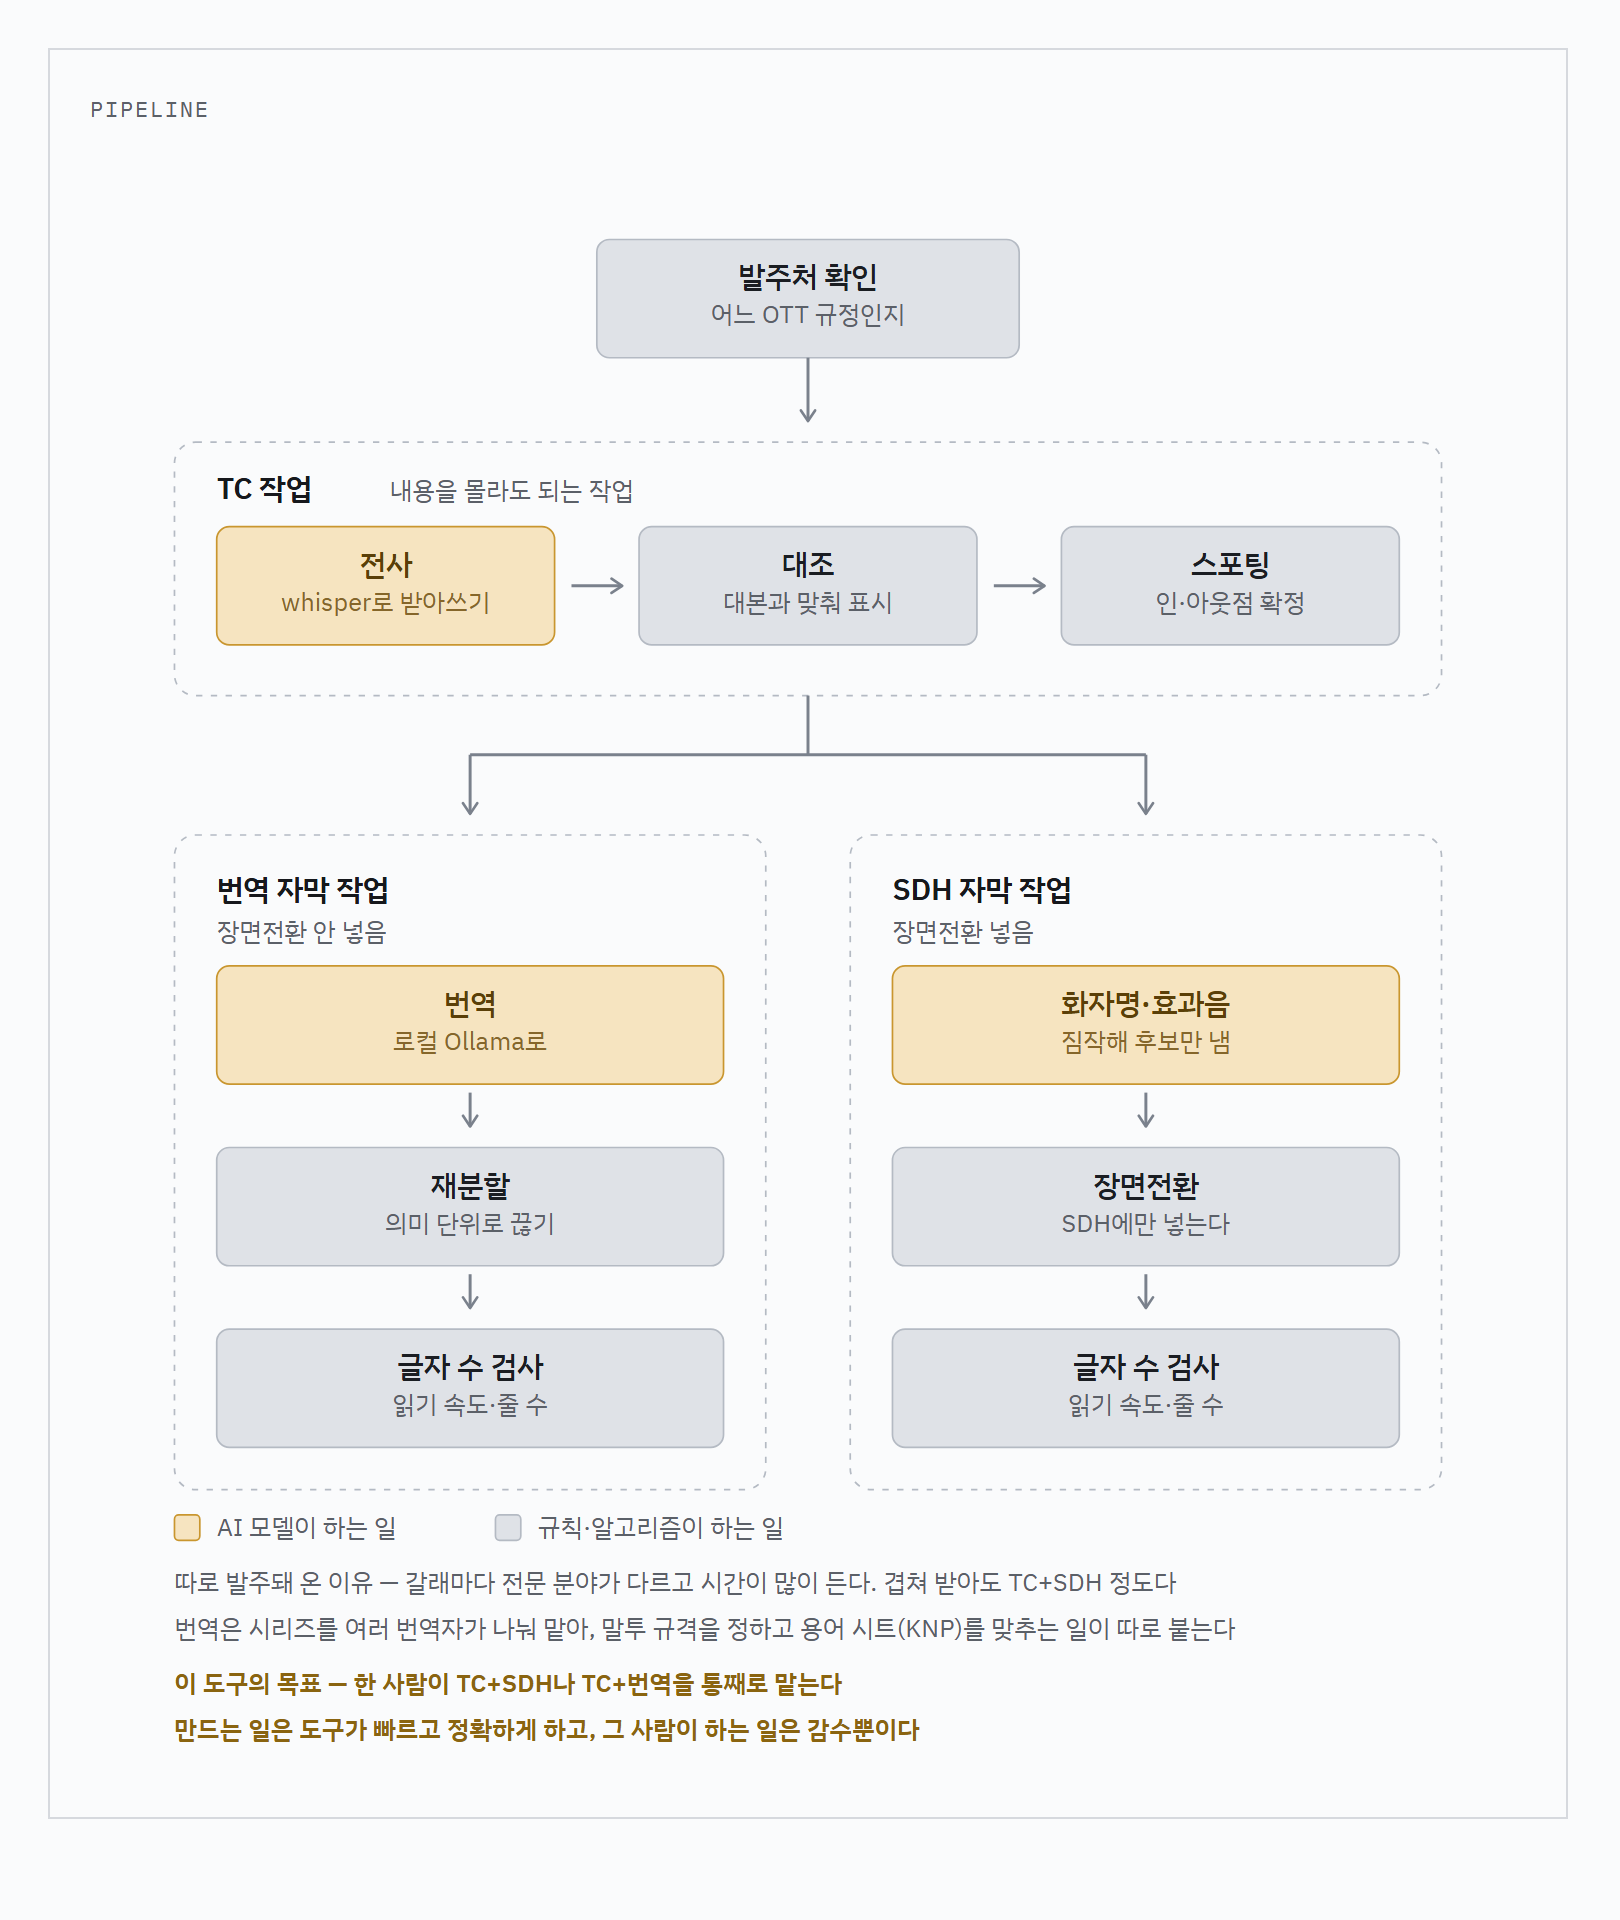
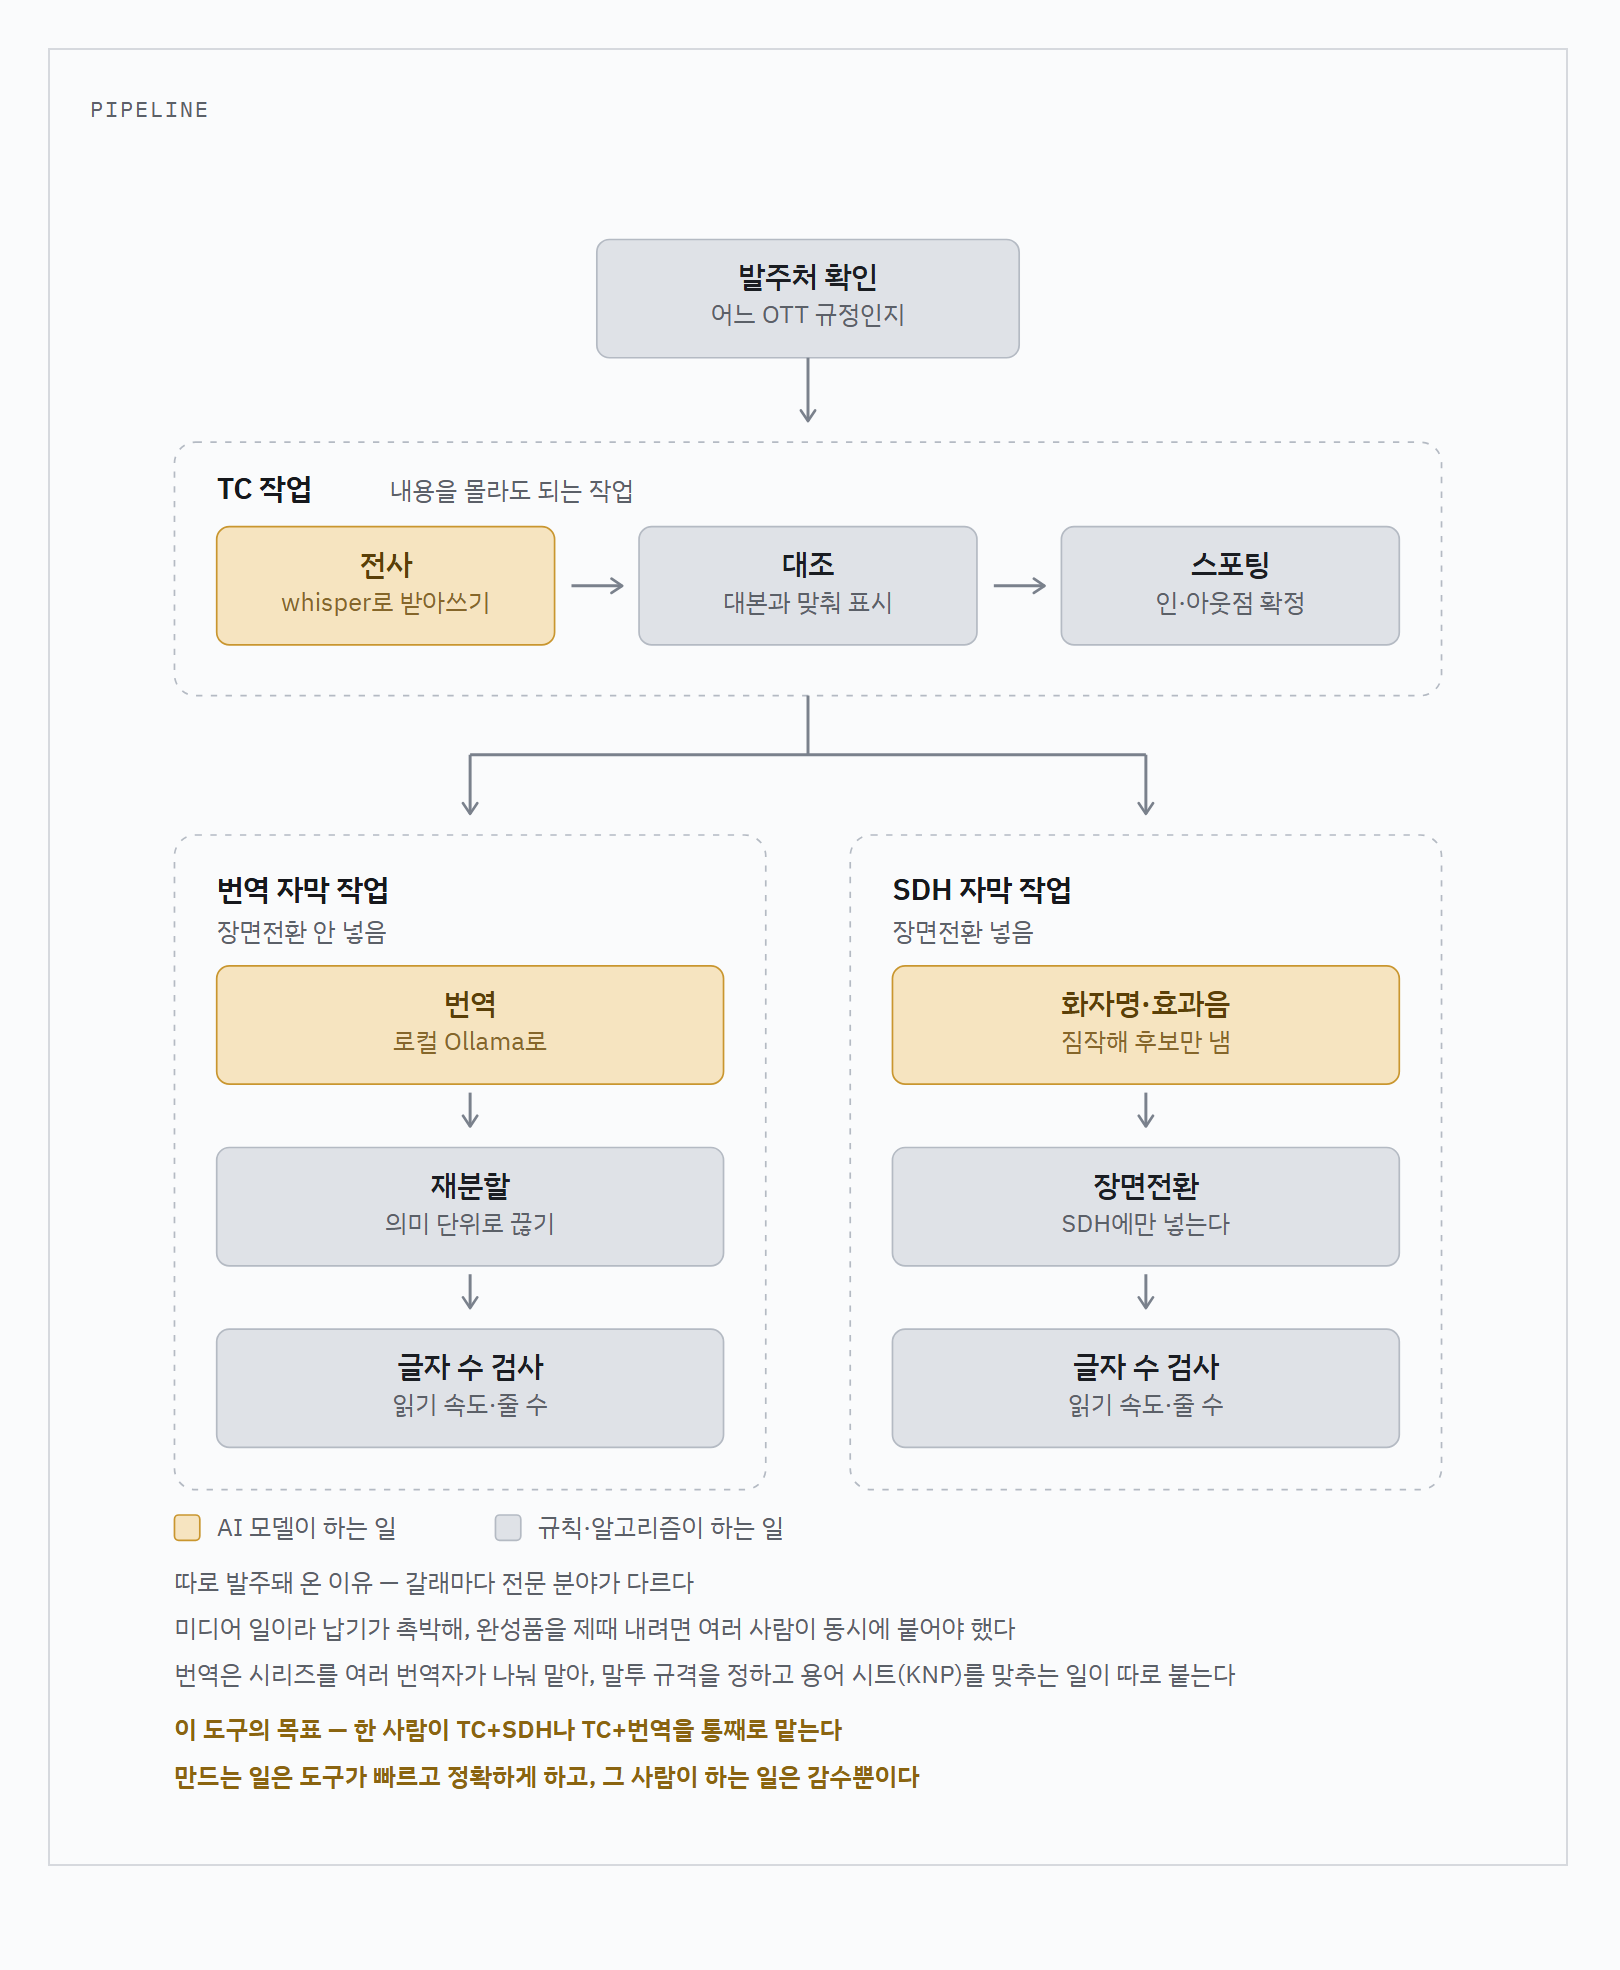
docs: 분업의 이유를 '시간이 많이 든다'에서 '납기가 촉박하다'로 바로잡는다
사용자 정정(2026-09-10). 갈래를 나눈 진짜 이유는 한 갈래에 시간이 오래
걸려서가 아니라, 미디어 일이라 납기가 촉박해 정해진 기간 안에 완성품을
내려면 여러 사람이 동시에 붙어 빨리 끝내야 했기 때문이다.

같은 요청으로 '겹쳐 받아도 TC+SDH 정도다'는 전부 뺐다.

도식 캡션의 이유를 두 줄로 나눠 전문 분야 분화와 납기 압박을 따로 적고,
발표문 본문·짚을 것, README, CLAUDE.md 규칙 13을 같은 문장으로 맞췄다.
도식 PNG를 재렌더해 Notion 카드에 반영했다.

diff --git a/자막TC생성기-발표문.html b/자막TC생성기-발표문.html
@@ -124,9 +124,9 @@ td em{font-style:normal;color:var(--ink-soft)}
   <div class="say">
     <figure class="figure">
     <figcaption>PIPELINE</figcaption>
-    <svg viewBox="0 0 680 770" role="img" aria-labelledby="plt pld">
+    <svg viewBox="0 0 680 792" role="img" aria-labelledby="plt pld">
       <title id="plt">자막 및 TC 생성기 작업 구조</title>
-      <desc id="pld">발주처 확인 뒤 TC 작업(전사, 대조, 스포팅)이 오고, 거기서 번역 자막 작업(번역, 재분할, 글자 수 검사)과 SDH 자막 작업(화자명·효과음, 장면전환, 글자 수 검사)으로 갈라진다. 세 작업은 갈래마다 전문성과 소요 시간이 커서 지금까지 따로 발주돼 왔고, 겹쳐 받아도 TC와 SDH 정도다. 이 도구의 목표는 한 사람이 TC와 SDH, 또는 TC와 번역을 통째로 맡는 것이다. 만드는 일은 도구가 하고, 그 사람이 하는 일은 도구가 낸 결과를 감수하는 것뿐이다.</desc>
+      <desc id="pld">발주처 확인 뒤 TC 작업(전사, 대조, 스포팅)이 오고, 거기서 번역 자막 작업(번역, 재분할, 글자 수 검사)과 SDH 자막 작업(화자명·효과음, 장면전환, 글자 수 검사)으로 갈라진다. 세 작업은 갈래마다 전문 분야가 다른 데다, 미디어 일이라 납기가 촉박해 여러 사람이 동시에 붙어야 제때 완성품이 나오기 때문에 지금까지 따로 발주돼 왔다. 이 도구의 목표는 한 사람이 TC와 SDH, 또는 TC와 번역을 통째로 맡는 것이다. 만드는 일은 도구가 하고, 그 사람이 하는 일은 도구가 낸 결과를 감수하는 것뿐이다.</desc>
       <defs><marker id="ar" viewBox="0 0 10 10" refX="8" refY="5" markerWidth="6" markerHeight="6" orient="auto-start-reverse"><path d="M2 1L8 5L2 9" fill="none" stroke="context-stroke" stroke-width="1.5" stroke-linecap="round" stroke-linejoin="round"/></marker></defs>
 
       <g class="n-rule">
@@ -208,21 +208,22 @@ td em{font-style:normal;color:var(--ink-soft)}
       <text class="lg" x="60" y="650" dominant-baseline="central">AI 모델이 하는 일</text>
       <g class="n-rule"><rect x="192" y="644" width="12" height="12" rx="2"/></g>
       <text class="lg" x="212" y="650" dominant-baseline="central">규칙·알고리즘이 하는 일</text>
-      <text class="cap" x="40" y="676" dominant-baseline="central">따로 발주돼 온 이유 — 갈래마다 전문 분야가 다르고 시간이 많이 든다. 겹쳐 받아도 TC+SDH 정도다</text>
-      <text class="cap" x="40" y="698" dominant-baseline="central">번역은 시리즈를 여러 번역자가 나눠 맡아, 말투 규격을 정하고 용어 시트(KNP)를 맞추는 일이 따로 붙는다</text>
-      <text class="cap-goal" x="40" y="724" dominant-baseline="central">이 도구의 목표 — 한 사람이 TC+SDH나 TC+번역을 통째로 맡는다</text>
-      <text class="cap-goal" x="40" y="746" dominant-baseline="central">만드는 일은 도구가 빠르고 정확하게 하고, 그 사람이 하는 일은 감수뿐이다</text>
+      <text class="cap" x="40" y="676" dominant-baseline="central">따로 발주돼 온 이유 — 갈래마다 전문 분야가 다르다</text>
+      <text class="cap" x="40" y="698" dominant-baseline="central">미디어 일이라 납기가 촉박해, 완성품을 제때 내려면 여러 사람이 동시에 붙어야 했다</text>
+      <text class="cap" x="40" y="720" dominant-baseline="central">번역은 시리즈를 여러 번역자가 나눠 맡아, 말투 규격을 정하고 용어 시트(KNP)를 맞추는 일이 따로 붙는다</text>
+      <text class="cap-goal" x="40" y="746" dominant-baseline="central">이 도구의 목표 — 한 사람이 TC+SDH나 TC+번역을 통째로 맡는다</text>
+      <text class="cap-goal" x="40" y="768" dominant-baseline="central">만드는 일은 도구가 빠르고 정확하게 하고, 그 사람이 하는 일은 감수뿐이다</text>
     </svg>
   </figure>
     <p>그래서 영상 하나 받으면 제일 먼저 이게 지금 어디서 상영 중인지부터 확인해요. 발주처가 정해져야 뒤에 따라야 할 규정이 정해지거든요.</p>
-    <p>그다음은 크게 세 갈래인데, 실무에서는 각각 따로 발주돼 왔어요. 갈래마다 전문 분야가 다르고 하나하나가 시간을 많이 잡아먹어서예요. 겹쳐서 받아도 TC랑 SDH 정도고요. 먼저 TC 작업. 자막이 몇 초에 뜨고 몇 초에 지는지, 그 자리를 잡는 일이에요. 전사하고, 대본이랑 맞춰보고, 인점 아웃점을 확정해요. 대조할 때 재밌는 게, 전사가 틀릴 때도 있고 대본이 틀릴 때도 있어요. 현장에서 애드리브 치기도 하니까요. 그래서 둘 중 하나를 정답으로 안 두고 어긋나는 데는 표시만 해둬요.</p>
+    <p>그다음은 크게 세 갈래인데, 실무에서는 각각 따로 발주돼 왔어요. 갈래마다 전문 분야가 다르기도 하고, 미디어 일이라 납기가 워낙 촉박해서 여러 사람이 동시에 붙어야 제때 완성품이 나오거든요. 먼저 TC 작업. 자막이 몇 초에 뜨고 몇 초에 지는지, 그 자리를 잡는 일이에요. 전사하고, 대본이랑 맞춰보고, 인점 아웃점을 확정해요. 대조할 때 재밌는 게, 전사가 틀릴 때도 있고 대본이 틀릴 때도 있어요. 현장에서 애드리브 치기도 하니까요. 그래서 둘 중 하나를 정답으로 안 두고 어긋나는 데는 표시만 해둬요.</p>
     <p>TC가 확정되면 거기서 번역 자막이냐 SDH냐로 갈라져요. 번역 자막은 번역하고, 의미 단위로 다시 끊고, 글자 수를 맞춰요. SDH는 청각장애인용 자막이라 누가 말하는지, 무슨 소리가 나는지를 넣고, 장면전환도 표시해요. 이 장면전환은 SDH에만 넣고 번역 자막에는 안 넣어요. 실무 관행이 그래요.</p>
     <p>번역은 특히 그래요. 드라마 같은 시리즈물은 한 사람이 다 못 하고 여러 번역자가 나눠 맡거든요. 그래서 말투를 어느 정도 규격으로 정해 두고, 용어를 통일하려고 KNP라는 엑셀 시트를 따로 만들어서 맞춰요. 번역 자체 말고 붙는 일이 많은 거죠.</p>
     <p>제가 만들려는 게 정확히 여기예요. 한 사람이 TC랑 SDH를, 또는 TC랑 번역을 통째로 맡는 거예요. 대신 만드는 일은 도구가 빠르고 정확하게 해 주고, 그 사람이 하는 일은 나온 결과를 감수하는 것만 남고요. 그게 이 프로젝트의 핵심이에요.</p>
     <p>그리고 실제로는 TC가 이미 끝난 파일을 받아서 번역만 하는 경우가 제일 흔해요. 그때는 도구가 타임코드를 아예 못 건드리게 잠가버립니다. 잠근 상태에서 타이밍을 고치라고 하면 그냥 에러를 내요.</p>
     <div class="note"><b>짚을 것</b>
       <ul>
-        <li>따로 발주돼 온 건 갈래마다 전문성·시간이 커서 — 겹쳐도 TC+SDH 정도, 번역은 공동작업이라 말투 규격·KNP 시트까지 붙음</li>
+        <li>따로 발주돼 온 건 전문 분야가 갈리는 데다 납기가 촉박해 여러 사람이 동시에 붙어야 해서 — 번역은 공동작업이라 말투 규격·KNP 시트까지 붙음</li>
         <li>이 프로젝트의 핵심 — 한 사람이 TC+SDH 또는 TC+번역을 통째로 맡되, 만드는 일은 도구가 하고 그 사람에게는 감수만 남기는 것</li>
         <li>장면전환은 SDH에만 — 넷플릭스 공식 문서는 전체 적용이라 적었지만 실무는 갈라 씀</li>
         <li>노란 박스 세 개가 AI — 받아쓰기, 번역, 소리 짐작. 검사·타이밍은 전부 규칙</li>

diff --git a/자막TC생성기-발표문.md b/자막TC생성기-발표문.md
@@ -10,7 +10,7 @@
 
 전사는 whisper로 일단 들리는 대로 받아 적고요, 대조는 이걸 원래 대본이랑 맞춰봐요. 근데 전사가 틀릴 때도 있고 대본이 틀릴 때도 있어요. 현장에서 애드리브 치기도 하니까요. 그래서 둘 중 하나를 정답으로 안 두고, 어긋나는 데는 표시만 해둬요. 그다음 번역하고, 문장을 의미 단위로 다시 끊고, 마지막에 글자 수랑 읽는 속도를 맞춰요.
 
-실무에서는 TC, 번역, SDH가 각각 따로 발주돼 왔어요. 갈래마다 전문 분야가 다르고 하나하나가 시간을 많이 잡아먹어서예요. 겹쳐서 받아도 TC랑 SDH 정도고요. 번역은 특히, 드라마 같은 시리즈물은 여러 번역자가 나눠 맡아서 말투를 규격으로 정해 두고 용어 통일하려고 KNP라는 엑셀 시트를 따로 맞춰요. 제가 만들려는 게 정확히 여기예요 — 한 사람이 TC+SDH를, 또는 TC+번역을 통째로 맡는 거예요. 대신 만드는 일은 도구가 빠르고 정확하게 해 주고, 그 사람이 하는 일은 나온 결과를 감수하는 것만 남고요. 그게 이 프로젝트의 핵심이에요.
+실무에서는 TC, 번역, SDH가 각각 따로 발주돼 왔어요. 갈래마다 전문 분야가 다르기도 하고, 미디어 일이라 납기가 워낙 촉박해서 여러 사람이 동시에 붙어야 제때 완성품이 나오거든요. 번역은 특히, 드라마 같은 시리즈물은 여러 번역자가 나눠 맡아서 말투를 규격으로 정해 두고 용어 통일하려고 KNP라는 엑셀 시트를 따로 맞춰요. 제가 만들려는 게 정확히 여기예요 — 한 사람이 TC+SDH를, 또는 TC+번역을 통째로 맡는 거예요. 대신 만드는 일은 도구가 빠르고 정확하게 해 주고, 그 사람이 하는 일은 나온 결과를 감수하는 것만 남고요. 그게 이 프로젝트의 핵심이에요.
 
 여기서 원칙이 하나 있는데, 확실하게 아는 건 자동으로 고치고 애매하게 추정한 건 표시만 해줘요. 그리고 미공개 영상 다루는 작업이라 전사도 번역도 전부 로컬에서 돌아갑니다.
 

diff --git a/README.md b/README.md
@@ -23,8 +23,8 @@
 ## 왜 한 사람이 통째로 맡게 만드는가
 
 지금까지 TC·번역·SDH는 **각각 따로 발주돼 왔다**(사용자 설명, 2026-09-10). 이유는
-갈래마다 전문 분야가 다르고 하나하나가 시간을 많이 잡아먹기 때문이다. 겹쳐서 받는
-경우가 있어도 **TC+SDH 정도**다.
+갈래마다 전문 분야가 다르고, **미디어 일이라 납기가 촉박하기 때문**이다 — 정해진
+기간 안에 완성품을 내려면 여러 사람이 동시에 붙어 빨리 끝내는 수밖에 없었다.
 
 번역은 특히 부가 업무가 많다. 드라마 같은 시리즈물은 한 사람이 다 못 맡고 **여러
 번역자가 나눠 작업**하기 때문에, 말투(어조·존반)를 어느 정도 규격으로 정해 두고,
